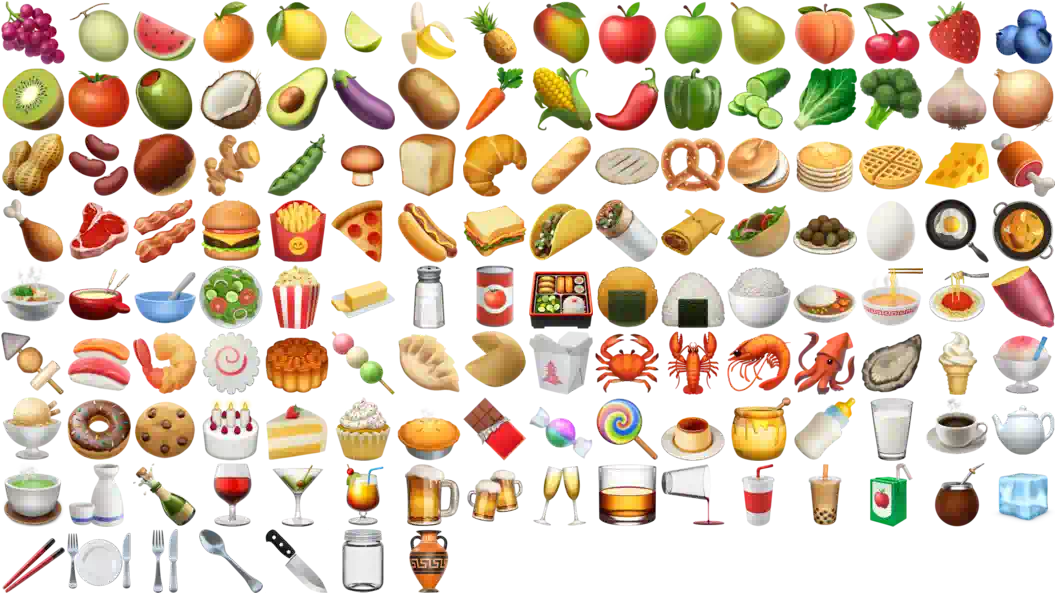
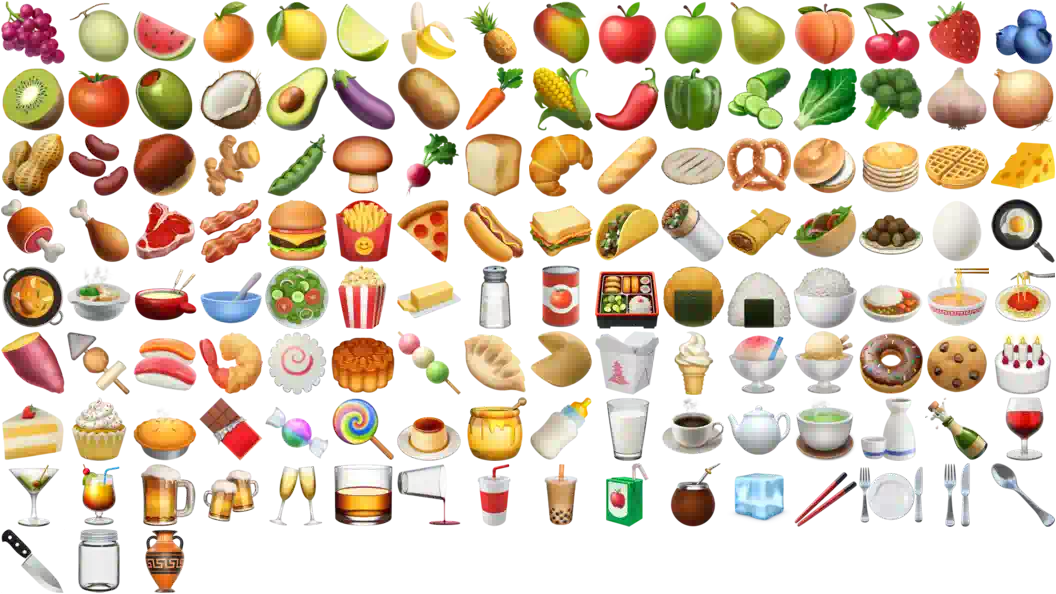
Update emoji to unicode 17.

diff --git a/app/src/main/java/org/thoughtcrime/securesms/migrations/ApplicationMigrations.java b/app/src/main/java/org/thoughtcrime/securesms/migrations/ApplicationMigrations.java
@@ -195,9 +195,10 @@ public class ApplicationMigrations {
     static final int STICKER_PACK_ADDITION_2       = 151;
     static final int DELETED_BY_DB_MIGRATION       = 152;
     static final int RELEASE_CHANNEL_RECIPIENT_FIX = 153;
+    static final int EMOJI_VERSION_13              = 154;
   }
 
-  public static final int CURRENT_VERSION = 153;
+  public static final int CURRENT_VERSION = 154;
 
   /**
    * This *must* be called after the {@link JobManager} has been instantiated, but *before* the call
@@ -902,6 +903,10 @@ public class ApplicationMigrations {
 
     if (lastSeenVersion < Version.RELEASE_CHANNEL_RECIPIENT_FIX) {
       jobs.put(Version.RELEASE_CHANNEL_RECIPIENT_FIX, new ReleaseChannelRecipientFixMigrationJob());
+    }
+
+    if (lastSeenVersion < Version.EMOJI_VERSION_13) {
+      jobs.put(Version.EMOJI_VERSION_13, new EmojiDownloadMigrationJob());
     }
 
     return jobs;
